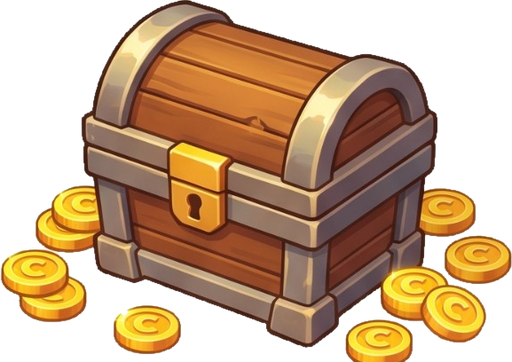
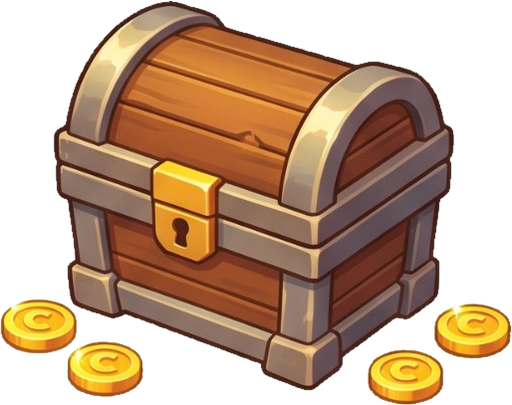
Mağaza: altı sabit coin paketi (7.500 - 200.000), altı sandık görseli

diff --git a/Assets/Scripts/UI/GameUI.cs b/Assets/Scripts/UI/GameUI.cs
@@ -1422,7 +1422,7 @@ namespace SledSurfers
 
         VisualElement shopModal, shopBody, offerModal, offerCard;
         Label shopNote, shopGems;
-        readonly Label[] shopCoinAmounts = new Label[3];
+        readonly Label[] shopCoinAmounts = new Label[6];
         float shopNoteClock = -1f;
 
         static readonly int[] GemPacks = { 10, 30, 100, 150, 200, 500 };
@@ -1430,7 +1430,9 @@ namespace SledSurfers
         static readonly int[] LaunchPacks = { 20, 80, 200 };
         static readonly string[] LaunchPrices = { "$0.99", "$2.49", "$4.99" };
         /// Elmasla coin paketleri (ödeme gerektirmez, hemen çalışır): elmas fiyatı; coin miktarı parkura göre (GameController).
-        public static readonly int[] CoinPackGems = { 3, 10, 25 };
+        public static readonly int[] CoinPackGems = { 5, 12, 25, 45, 60, 75 };
+        /// Coin paketlerinin miktarları (kullanıcı kararı 2026-10-11: altı sabit paket).
+        public static readonly int[] CoinPackCoins = { 7500, 20000, 50000, 100000, 150000, 200000 };
 
         VisualElement Section(string text)
         {
@@ -1516,13 +1518,18 @@ namespace SledSurfers
 
             // Coin: elmasla (ödeme gerektirmez; elmasa kullanım alanı)
             shopBody.Add(Section("COINS"));
-            var coinRow = E("row", "shop-grid");
+            VisualElement coinRow = null;
             for (int k = 0; k < CoinPackGems.Length; k++)
             {
                 int index = k;
+                if (k % 3 == 0)
+                {
+                    coinRow = E("row", "shop-grid");
+                    shopBody.Add(coinRow);
+                }
                 var cell = E("card", "col", "shop-cell");
                 shopCoinAmounts[k] = L("", "outlined");
-                shopCoinAmounts[k].style.fontSize = 52;
+                shopCoinAmounts[k].style.fontSize = 46;
                 cell.Add(shopCoinAmounts[k]);
                 cell.Add(ShopArt("coins_" + (k + 1), IconKind.Coin, 96 + 14 * k));
                 var buy = B(() => ShopBuyCoins?.Invoke(index), "btn", "btn-blue", "shop-price");
@@ -1531,7 +1538,6 @@ namespace SledSurfers
                 cell.Add(buy);
                 coinRow.Add(cell);
             }
-            shopBody.Add(coinRow);
 
             shopModal.Add(scroll);
             shopModal.Add(shopNote);

diff --git a/Assets/Scripts/Game/GameController.cs b/Assets/Scripts/Game/GameController.cs
@@ -545,12 +545,8 @@ namespace SledSurfers
 
         Color dustColor = Color.white;
         Vector2 camDir = Vector2.up;   // koşu kamerasının yumuşatılmış yatay yönü (x, z)
-        /// Elmasla coin paketleri: miktar bulunulan parkurun fiyat düzeyine göre (ucuz bir yükseltmenin ~4, 15 ve 45 katı).
-        int[] CoinPackAmounts()
-        {
-            float unit = 250f * TrackLibrary.CostScale[save.track];
-            return new[] { Round50(unit * 4f), Round50(unit * 15f), Round50(unit * 45f) };
-        }
+        /// Elmasla coin paketleri: altı sabit miktar (GameUI.CoinPackCoins).
+        int[] CoinPackAmounts() => GameUI.CoinPackCoins;
 
         static int Round50(float v) => Mathf.Max(50, Mathf.RoundToInt(v / 50f) * 50);
 
